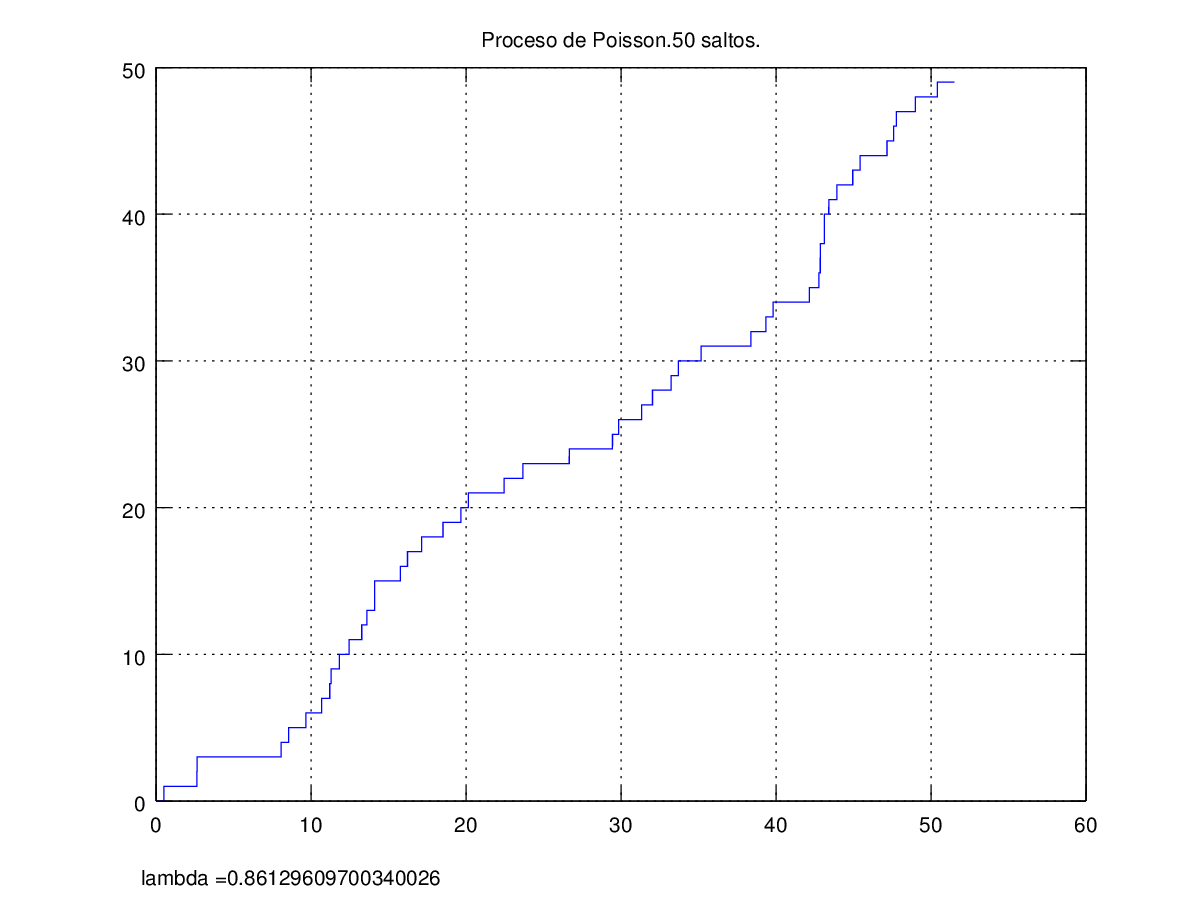
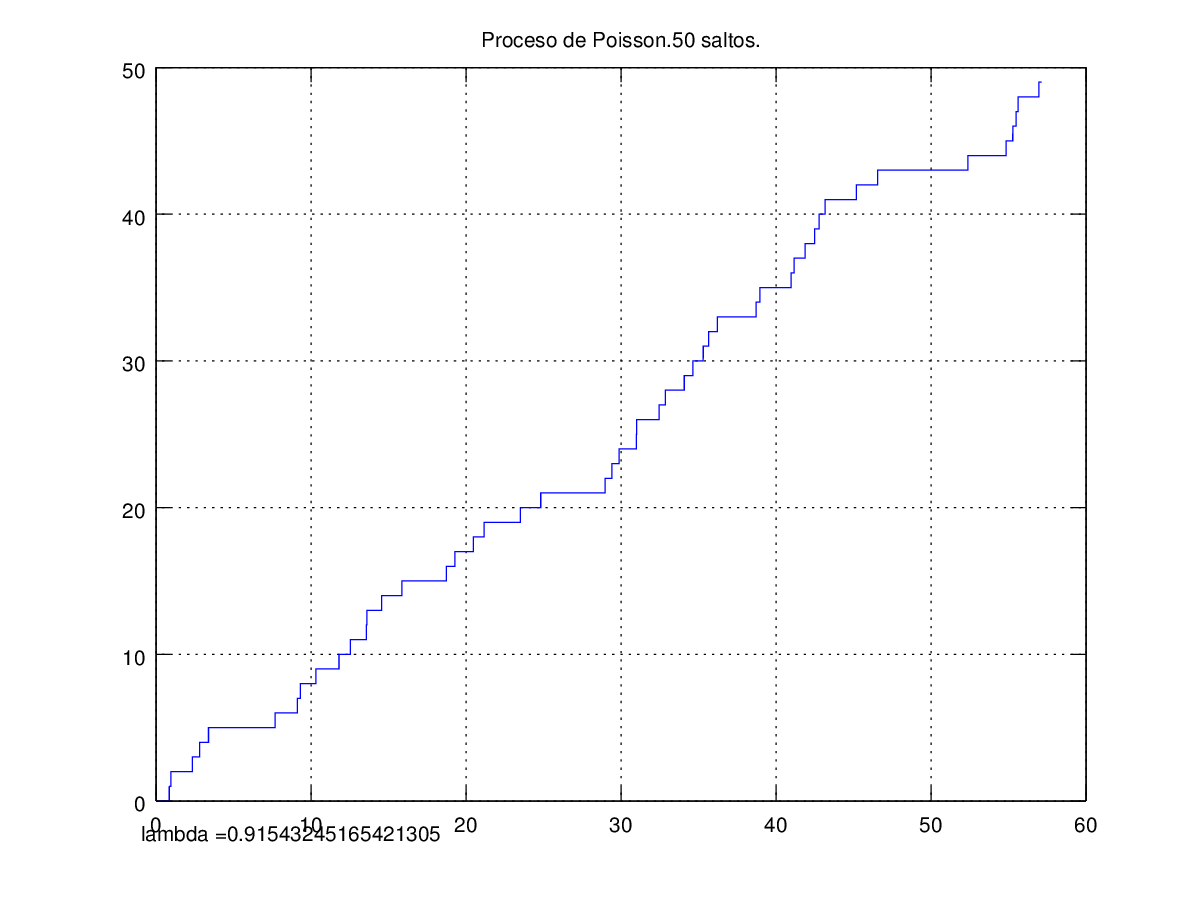
Se corrige parámetro lambda en 5.1.4

diff --git a/tarea5/problema5_1/inciso5_1_4.tex b/tarea5/problema5_1/inciso5_1_4.tex
@@ -43,9 +43,11 @@ A diferencia de la implementación anterior, esta vez intentamos representar el 
 hasta un tiempo dado y no hasta un número de saltos dado. \pn
 
 Como se puede apreciar, en esta última ejecución hasta el tiempo $50$ únicamente hubo $18$ saltos. 
-A diferencia de que en la ejecución de la primera implementacción hubo casi $50$ saltos para el 
+A diferencia de que en la ejecución de la primera implementacción hubo $43$ saltos para el 
 tiempo $50$. Cabe notar, que el parámetro lambda de la primera implementación era aproximadamente 
-$0.861297$, mientras que el de la segunda a penas aproximadamente $0.333371$.\pn
+$0.915432$, mientras que el de la segunda a penas aproximadamente $0.333371$. Hay que recordar
+que los ``holding times'' tienen distribución exponencial, tienden a ser más largos 
+conforme $\lambda$ es más pequeño, y por lo tanto, entre más pequeño sea, habrá saltos con menos frecuencia.\pn
 
 \textbf{Nota: } Para poder implementar esta versión del algoritmo se necesitó implementar
 una función que se deduce del resultado de [\ref{problema5_1:inciso3}]. Esta parte está en el archivo con nombre

diff --git a/tarea5/problema5_1/ProcesoPoissonConExponenciales.m b/tarea5/problema5_1/ProcesoPoissonConExponenciales.m
@@ -1,12 +1,12 @@
 clear;			
 #Se define el parametro lambda en [0, 1].
-	lambda = rand();					
+	lambda = 0.915432451654213;					
 
 #Numero de saltos. 
 	n = 50;							
 
 #Muestra para S_1, S_2, .....               
-	S = exprnd(lambda, n, 1);	
+	S = exprnd(1/lambda, n, 1);	
 	
 #Aqui se calculan los tiempos
 #de salto.   
